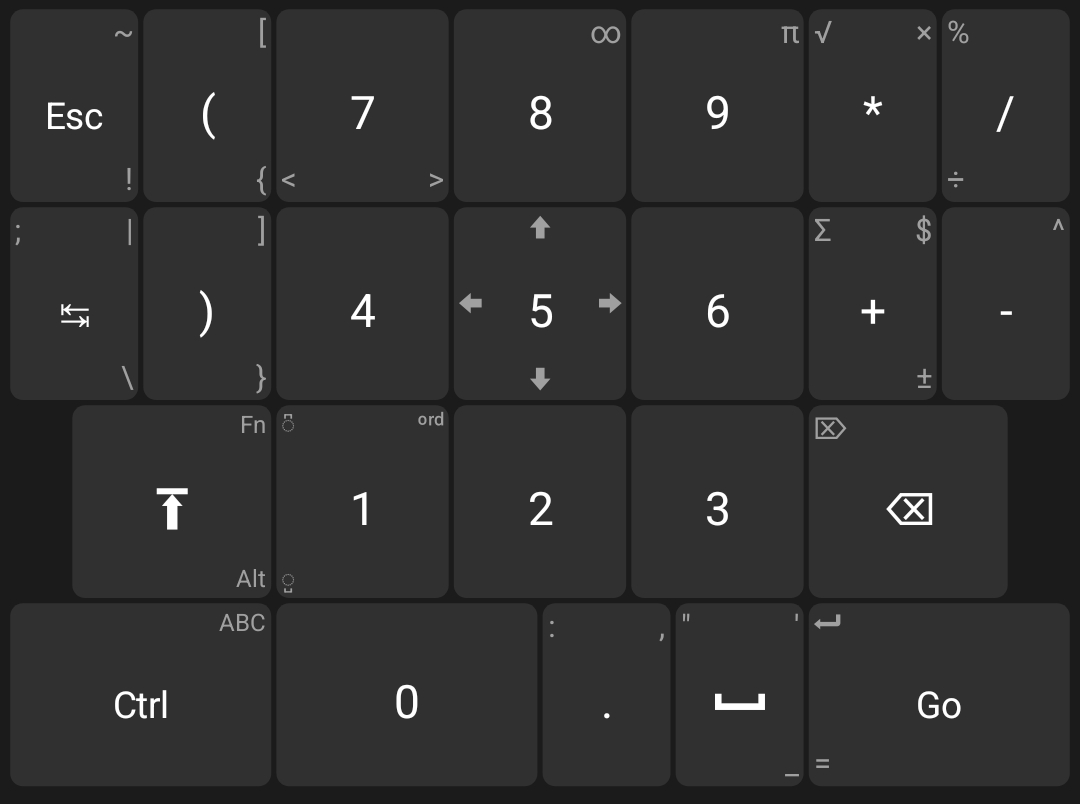
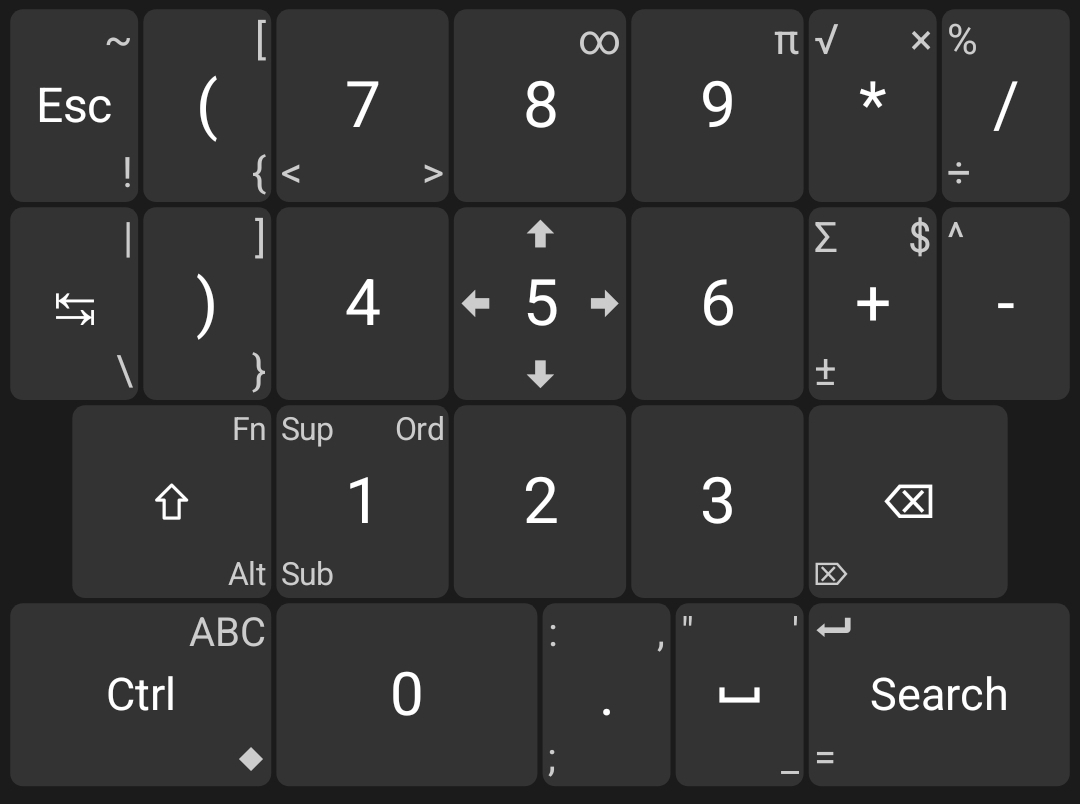
Update images and README

diff --git a/README.md b/README.md
@@ -1,14 +1,18 @@
 # Unexpected Keyboard
-###  - Personal fork for testing and adding personal preferences - 
-Awesome work on the original [upstream](https://github.com/Julow/Unexpected-Keyboard) repo
+###  - Personal fork for testing and adding personal preferences -  Readme.md Updated 2022-03-24
+Awesome work on the original [upstream](https://github.com/Julow/Unexpected-Keyboard) repo ❤
 
 This fork currently has the following extra changes:
-- Move corners extrakeys away from phone's edge (good for bulky phone case)
-- Second click on CTRL or ALT locks their state ON (configurable in preferences)
-- Update unicode symbols to font-icons, so it renders consistently across different devices
-- Increase maximum size of char label setting, useful for big screen resolutions
+- Add QWERTY2 Layout, this layout is an alternative to the original QWERTY, it is a programming layout, (not a localization), the main goal on this layout was first to move the corners extrakeys away from phone's edge (good for bulky phone case), after that some other keys rearrangements were also done to improve the layout overall
+- ~~Second click on CTRL or ALT locks their state ON (configurable in preferences)~~ The upstream has this feature now
+- ~~Update unicode symbols to font-icons, so it renders consistently across different devices~~ The upstream has this feature now
+- ~~Increase maximum size of char label setting, useful for big screen resolutions~~ The upstream fixed the root cause, and this commit was reverted in this branch
+- The QUERTY2 layout has adjusted key proportions on the bottom row, giving more importance to the navigation arrows key
+- To implement the QUERTY2 Layout, there is some added logic that enable each individual layout to be paired with a specif numeric layout, so it's possible to have different numeric layouts.
+- Added an Extra variant APK builder to the makefile, called fork-debug, this extra apk has a different namespace, so it can be installed in parallel to the oficial APK, very useful for testing, or for building from source a modified version with personal preferences, and still be able to load the official APK at same time.
 
 -----
+## Unexpected Keyboard
 A lightweight virtual keyboard for developers.
 
 ![Unexpected Keyboard](metadata/android/en-US/images/featureGraphic.png)
